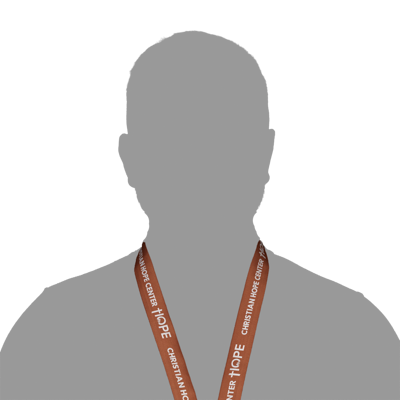
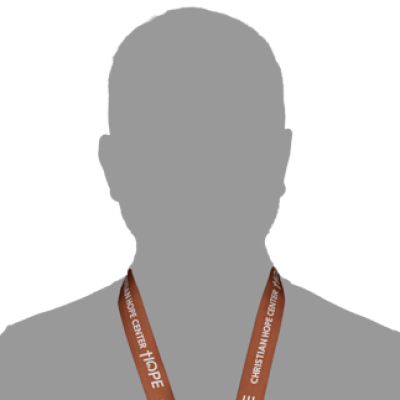
Restyle navbar and sidebar active states
Navbar: group the language toggle into an EN|AR segmented island and
the utility icons (guide, website, feedback, notifications) into one
capsule using the brand SVG glyphs; taller bar and a larger, aligned
profile avatar.

Sidebar: active top-level items and dropdown toggles become a filled
brand pill with white label and icon (force every icon to inherit the
item color so it turns white); active sub-items keep bold red text with
a short centered red accent over a continuous grey guide line.

Default avatar: crop the placeholder so the subject fills the circle
with no empty space below.

Changed region(s): [[0.03, 0.0, 1.0, 1.0], [0.0, 0.81, 0.03, 0.87]]

diff --git a/resources/views/livewire/layout/header.blade.php b/resources/views/livewire/layout/header.blade.php
@@ -6,6 +6,9 @@
     $activeRole = $user->active_role_name ?? __('None');
     $switchTo = $isRtl ? 'en' : 'ar';
     $localized = LaravelLocalization::getLocalizedURL($switchTo, null, [], true);
+    $curr = app()->getLocale();
+    $enUrl = LaravelLocalization::getLocalizedURL('en', null, [], true);
+    $arUrl = LaravelLocalization::getLocalizedURL('ar', null, [], true);
     $guideLabel = $isRtl ? 'دليل الاستخدام' : 'User guide';
     $homepageLabel = $isRtl ? 'الموقع الرئيسي' : 'Main website';
     $feedbackLabel = $isRtl ? 'إرسال مشكلة أو ملاحظة' : 'Send problem or feedback';
@@ -14,8 +17,8 @@
 <nav id="app-navbar" dir="{{ $isRtl ? 'rtl' : 'ltr' }}"
     class="fixed inset-x-0 top-0 z-10 w-screen bg-white md:w-full dark:bg-neutral-800 border-b border-neutral-200 dark:border-neutral-700">
 
-    <div class="px-3 py-1 lg:px-4 lg:ps-3">
-        <div class="flex items-center justify-end gap-2 md:pe-0 pe-4">
+    <div class="px-3 py-[11px] lg:px-4 lg:ps-3">
+        <div class="flex items-center justify-end gap-3 md:pe-0 pe-4">
             <button wire:click="$dispatch('sidebar.toggle')" type="button"
                 class="p-2 transition bg-transparent border border-transparent cursor-pointer md:hidden me-auto text-heading text-secondary-light hover:text-secondary-dark rounded-base">
                 <span class="sr-only">Open sidebar</span>
@@ -24,53 +27,48 @@
                     <path stroke="currentColor" stroke-linecap="round" stroke-width="2" d="M5 7h14M5 12h14M5 17h10" />
                 </svg>
             </button>
-            <a href="{{ $localized }}"
-                class="inline-flex items-center justify-center h-9 min-w-9 px-2 pt-px text-body font-medium leading-none tracking-wide transition rounded-full text-secondary-medium hover:bg-neutral-100 hover:text-secondary-dark focus:outline-none focus:ring-2 focus:ring-neutral-200"
-                title="{{ $switchTo === 'ar' ? 'العربية' : 'English' }}"
-                aria-label="{{ $switchTo === 'ar' ? 'Switch to Arabic' : 'Switch to English' }}">
-                {{ $switchTo === 'ar' ? 'AR' : 'EN' }}
-            </a>
+            {{-- Island 1: language segmented (EN | AR) --}}
+            <div class="flex items-center rounded-full bg-neutral-100 p-1">
+                <a href="{{ $enUrl }}"
+                    class="inline-flex items-center justify-center h-9 px-4 rounded-full text-body font-bold leading-none transition {{ $curr === 'en' ? 'bg-white text-neutral-900 shadow-e1' : 'text-secondary-light font-semibold hover:text-secondary-dark' }}"
+                    aria-label="English" @if($curr === 'en') aria-current="true" @endif>EN</a>
+                <a href="{{ $arUrl }}"
+                    class="inline-flex items-center justify-center h-9 px-4 rounded-full text-body font-bold leading-none transition {{ $curr === 'ar' ? 'bg-white text-neutral-900 shadow-e1' : 'text-secondary-light font-semibold hover:text-secondary-dark' }}"
+                    aria-label="العربية" @if($curr === 'ar') aria-current="true" @endif>AR</a>
+            </div>
 
-            <span class="w-px h-6 bg-secondary-soft" aria-hidden="true"></span>
+            {{-- Island 2: utility icons grouped in one capsule --}}
+            <div class="flex items-center gap-0.5 rounded-full bg-neutral-100 p-1">
+                <a href="https://docs.google.com/document/d/1AcrvWNBzoD-bTem3Gy_35EtDgwD-SXST/edit?usp=sharing&ouid=105248334092459549739&rtpof=true&sd=true"
+                    target="_blank" rel="noopener"
+                    class="inline-flex items-center justify-center transition rounded-full size-9 text-secondary-light hover:bg-white hover:text-secondary-dark hover:shadow-e1 focus:outline-none focus:ring-2 focus:ring-neutral-200"
+                    title="{{ $guideLabel }}" aria-label="{{ $guideLabel }}">
+                    <svg width="15" height="15" viewBox="0 0 29.93 27.45" fill="currentColor" xmlns="http://www.w3.org/2000/svg"><path d="M29.93,5.57v14.8c-.37,2.76-2.35,4.97-5.12,5.48l-7.71,1.4c-1.36.25-2.68.28-4.05.03l-7.81-1.42c-2.8-.46-4.86-2.68-5.23-5.52V5.6C.46,1.94,3.76-.55,7.38.11l4.64.84c1.15.21,2.16.74,2.95,1.64.75-.84,1.7-1.4,2.8-1.6L22.6.1c3.6-.65,6.85,1.88,7.32,5.47ZM13.72,24.86V5.91c0-1.23-.84-2.25-2.04-2.47l-4.73-.87c-2.31-.43-4.45,1.31-4.45,3.69v13.43c0,1.82,1.27,3.37,3.06,3.7l8.16,1.48ZM24.4,23.37c1.8-.33,3.04-1.9,3.04-3.69V6.25c0-2.32-2.07-4.12-4.35-3.7l-4.89.9c-1.18.22-1.98,1.27-1.98,2.46v18.96s8.19-1.49,8.19-1.49Z"/></svg>
+                </a>
 
-            <a href="https://docs.google.com/document/d/1AcrvWNBzoD-bTem3Gy_35EtDgwD-SXST/edit?usp=sharing&ouid=105248334092459549739&rtpof=true&sd=true"
-                target="_blank" rel="noopener"
-                class="inline-flex items-center justify-center transition rounded-full size-9 text-secondary-light hover:bg-neutral-100 hover:text-secondary-dark focus:outline-none focus:ring-2 focus:ring-neutral-200"
-                title="{{ $guideLabel }}"
-                aria-label="{{ $guideLabel }}">
-                <x-icons.user-guide class="size-[24px]" />
-            </a>
+                <a href="https://hcsyria.org/home" target="_blank" rel="noopener"
+                    class="inline-flex items-center justify-center transition rounded-full size-9 text-secondary-light hover:bg-white hover:text-secondary-dark hover:shadow-e1 focus:outline-none focus:ring-2 focus:ring-neutral-200"
+                    title="{{ $homepageLabel }}" aria-label="{{ $homepageLabel }}">
+                    <svg width="15" height="15" viewBox="0 0 29.95 29.95" fill="currentColor" xmlns="http://www.w3.org/2000/svg"><path d="M15.98,29.92l-2.01.03-.2-.05c-7.42-.59-13.25-6.55-13.77-13.87l.03-2.07C.56,6.49,6.49.52,14.03.03c4.07-.27,8.11,1.17,11.14,3.99,3.3,3.08,5.04,7.45,4.75,11.9-.49,7.54-6.46,13.47-13.93,14ZM8.21,8.73c.9-2.13,2.07-3.96,3.48-5.77-3.21.87-5.85,2.94-7.51,5.77h4.02ZM25.75,8.73c-1.67-2.85-4.31-4.89-7.5-5.77,1.43,1.82,2.6,3.69,3.49,5.78h4.01ZM18.98,8.74c-1.07-2.12-2.4-4-4.01-5.72-1.61,1.72-2.94,3.6-4.01,5.72h8.03ZM7.36,18.72c-.66-2.47-.66-5.01,0-7.48H3.07c-.77,2.47-.76,5.07,0,7.49h4.29ZM19.99,18.72c.79-2.47.79-5.08,0-7.49h-10.02c-.79,2.45-.79,5.03,0,7.49h10.03ZM26.87,18.72c.77-2.48.76-5.06,0-7.49h-4.29c.66,2.47.66,5.01,0,7.49h4.29ZM8.2,21.21h-4.01c1.66,2.83,4.29,4.9,7.51,5.78-1.44-1.81-2.59-3.69-3.5-5.78ZM18.98,21.22h-8.02c1.07,2.12,2.4,4,4.01,5.72,1.61-1.73,2.94-3.6,4.01-5.72ZM25.75,21.22h-4.02c-.89,2.12-2.06,3.96-3.48,5.77,3.2-.88,5.85-2.95,7.49-5.77Z"/></svg>
+                </a>
 
-            <span class="w-px h-6 bg-secondary-soft" aria-hidden="true"></span>
+                <a href="https://docs.google.com/forms/d/e/1FAIpQLSdxNuk6xkFZY1t4vb3kYEKkwMMPM6VnvfGPO-iH1VfTCiEHMQ/viewform"
+                    target="_blank" rel="noopener"
+                    class="inline-flex items-center justify-center transition rounded-full size-9 text-secondary-light hover:bg-white hover:text-secondary-dark hover:shadow-e1 focus:outline-none focus:ring-2 focus:ring-neutral-200"
+                    title="{{ $feedbackLabel }}" aria-label="{{ $feedbackLabel }}">
+                    <svg width="15" height="15" viewBox="0 0 29.95 29.95" fill="currentColor" xmlns="http://www.w3.org/2000/svg"><path d="M29.92,13.93c-.27-3.41-1.64-6.63-4-9.15C22.84,1.48,18.48-.26,14.03.03,5.69.58-.52,7.79.03,15.97c.51,7.54,6.51,13.46,13.98,13.95l2.01.03c7.41-.53,13.39-6.51,13.92-13.92l-.02-2.1ZM14.97,27.45c-6.89,0-12.47-5.58-12.47-12.47S8.09,2.5,14.97,2.5s12.47,5.58,12.47,12.47-5.58,12.47-12.47,12.47Z"/><path d="M14.98,12.48h-1.24c-.71,0-1.26.57-1.26,1.24,0,.69.55,1.26,1.26,1.26h1.23s0,7.48,0,7.48c0,.72.58,1.25,1.25,1.25.67,0,1.24-.53,1.24-1.28v-7.45c0-1.39-1.12-2.49-2.49-2.5Z"/><path d="M14.98,9.99c1.03,0,1.87-.84,1.87-1.87s-.84-1.87-1.87-1.87-1.87.84-1.87,1.87.84,1.87,1.87,1.87Z"/></svg>
+                </a>
 
-            <a href="https://hcsyria.org/home" target="_blank" rel="noopener"
-                class="inline-flex items-center justify-center transition rounded-full size-9 text-secondary-light hover:bg-neutral-100 hover:text-secondary-dark focus:outline-none focus:ring-2 focus:ring-neutral-200"
-                title="{{ $homepageLabel }}"
-                aria-label="{{ $homepageLabel }}">
-                <x-icons.homepage class="size-5" />
-            </a>
-
-            <span class="w-px h-6 bg-secondary-soft" aria-hidden="true"></span>
-
-            <a href="https://docs.google.com/forms/d/e/1FAIpQLSdxNuk6xkFZY1t4vb3kYEKkwMMPM6VnvfGPO-iH1VfTCiEHMQ/viewform"
-                target="_blank" rel="noopener"
-                class="inline-flex items-center justify-center transition rounded-full size-9 text-secondary-light hover:bg-neutral-100 hover:text-secondary-dark focus:outline-none focus:ring-2 focus:ring-neutral-200"
-                title="{{ $feedbackLabel }}"
-                aria-label="{{ $feedbackLabel }}">
-                <x-icons.guide class="size-5" />
-            </a>
-
-            <span class="w-px h-6 bg-secondary-soft" aria-hidden="true"></span>
-
-            <x-layouts.app.notification />
+                <x-layouts.app.notification />
+            </div>
 
             @auth
                 <div x-data="roleDropdown()" x-init="$store.dir = { rtl: @js($isRtl) }" class="relative ms-3" @keydown.escape.window="open=false">
 
-                    <button @click="toggle()" :aria-expanded="open" aria-haspopup="menu" class="inline-flex items-center justify-center transition rounded-full size-9 hover:bg-neutral-100 focus:outline-none focus:ring-2 focus:ring-neutral-200">
+                    <button @click="toggle()" :aria-expanded="open" aria-haspopup="menu" class="inline-flex items-center justify-center transition rounded-full size-10 focus:outline-none focus:ring-2 focus:ring-neutral-200">
 
-                        <span class="relative inline-flex items-center justify-center rounded-full size-9 shrink-0">
-                            <img class="object-cover border rounded-full size-8 border-primary"
+                        <span class="relative inline-flex items-center justify-center rounded-full size-10 shrink-0">
+                            <img class="object-cover border rounded-full size-10 border-primary"
                                 src="{{ $user->profile?->avatar_url }}" alt="user" />
 
                             <span

diff --git a/resources/views/components/layouts/app/notification.blade.php b/resources/views/components/layouts/app/notification.blade.php
@@ -10,10 +10,10 @@
         @click="open = !open"
         :aria-expanded="open"
         aria-haspopup="menu"
-        class="relative inline-flex items-center justify-center transition rounded-full cursor-pointer size-9 text-secondary-light hover:bg-neutral-100 hover:text-secondary-dark focus:outline-none focus:ring-2 focus:ring-neutral-200 dark:text-secondary-light dark:hover:text-white">
+        class="relative inline-flex items-center justify-center transition rounded-full cursor-pointer size-9 text-secondary-light hover:bg-white hover:text-secondary-dark hover:shadow-e1 focus:outline-none focus:ring-2 focus:ring-neutral-200 dark:text-secondary-light dark:hover:text-white">
 
         <span :class="ring && 'animate-notif-shake'" class="inline-flex">
-            <x-icons.notification class="size-5" />
+            <svg width="15" height="15" viewBox="0 0 28.55 29.92" fill="currentColor" xmlns="http://www.w3.org/2000/svg"><path d="M15.04,29.92h-1.38c-2.69-.32-4.88-2.29-5.43-4.96H3.77c-1.16,0-2.21-.51-2.9-1.35-.74-.89-1.04-2.05-.78-3.2l2.53-11.37C3.73,4.06,8.02.41,13.1.03c5.44-.41,10.56,3.11,12.01,8.35l3.31,11.93c.32,1.15,0,2.36-.73,3.27-.68.84-1.72,1.38-2.87,1.38h-4.35c-.54,2.67-2.74,4.65-5.42,4.97ZM24.84,22.46c.45,0,.78-.26.97-.52.24-.34.29-.7.18-1.11l-3.25-11.7c-1.13-4.08-4.97-6.79-9.14-6.62s-7.65,3.1-8.56,7.19l-2.49,11.22c-.17.77.38,1.53,1.19,1.53h21.11ZM17.85,24.96h-7c.54,1.52,1.97,2.5,3.54,2.49s2.98-1,3.47-2.49Z"/></svg>
         </span>
 
         <!-- Unread Counter -->

diff --git a/resources/views/components/layouts/app/sidebar/single-item.blade.php b/resources/views/components/layouts/app/sidebar/single-item.blade.php
@@ -8,14 +8,14 @@
                 nav-press group flex items-center w-full px-3 py-2 rounded-control
                 font-medium
                 " . ($active
-                        ? ' text-primary font-semibold bg-selection'
+                        ? ' text-white font-semibold bg-primary'
                         : ' text-secondary-light hover:text-secondary-dark hover:bg-black/[0.03]')
         ]) }}
         :class="sidebarCollapsed && !open ? 'md:justify-center md:size-11 md:px-0 md:mx-auto' : ''"
     >
 
         {{-- Icon --}}
-        <span class="flex items-center justify-center size-5 shrink-0 text-inherit group-hover:text-inherit">
+        <span class="flex items-center justify-center size-5 shrink-0 text-inherit group-hover:text-inherit [&_svg]:text-inherit">
             {!! $icon !!}
         </span>
 

diff --git a/resources/views/components/layouts/app/sidebar/nav-item.blade.php b/resources/views/components/layouts/app/sidebar/nav-item.blade.php
@@ -4,9 +4,9 @@
 <li x-show="!sidebarCollapsed || open">
     <a {{ $attributes->merge([
         'class' => 'nav-press group relative flex items-center w-full ps-6 py-2 text-small font-light
-         border-s-2 rounded-e-control ' . ($active
-                ? ' text-primary font-semibold border-primary'
-                : ' text-secondary-dark border-secondary-soft hover:text-primary hover:bg-black/[0.03]')
+         border-s-2 border-secondary-soft rounded-e-control ' . ($active
+                ? ' text-primary font-semibold before:content-[\'\'] before:absolute before:-start-0.5 before:top-1/2 before:-translate-y-1/2 before:h-5 before:w-[2px] before:rounded-full before:bg-primary'
+                : ' text-secondary-dark hover:text-primary hover:bg-black/[0.03]')
     ]) }}>
 
             {{$slot}}

diff --git a/resources/views/components/layouts/app/sidebar/dropdown-nav-list.blade.php b/resources/views/components/layouts/app/sidebar/dropdown-nav-list.blade.php
@@ -22,13 +22,13 @@
             font-medium
 
             {{ $active
-                ? 'text-secondary-dark bg-selection'
+                ? 'text-white font-semibold bg-primary'
                 : 'text-secondary-light hover:text-secondary-dark hover:bg-black/[0.03]' }}
         "
         :class="sidebarCollapsed && !open ? 'md:justify-center md:size-11 md:px-0 md:mx-auto' : ''"
     >
         {{-- Icon --}}
-        <span class="flex items-center justify-center size-5 shrink-0 text-inherit group-hover:text-inherit">
+        <span class="flex items-center justify-center size-5 shrink-0 text-inherit group-hover:text-inherit [&_svg]:text-inherit">
             {{ $icon }}
         </span>
 
